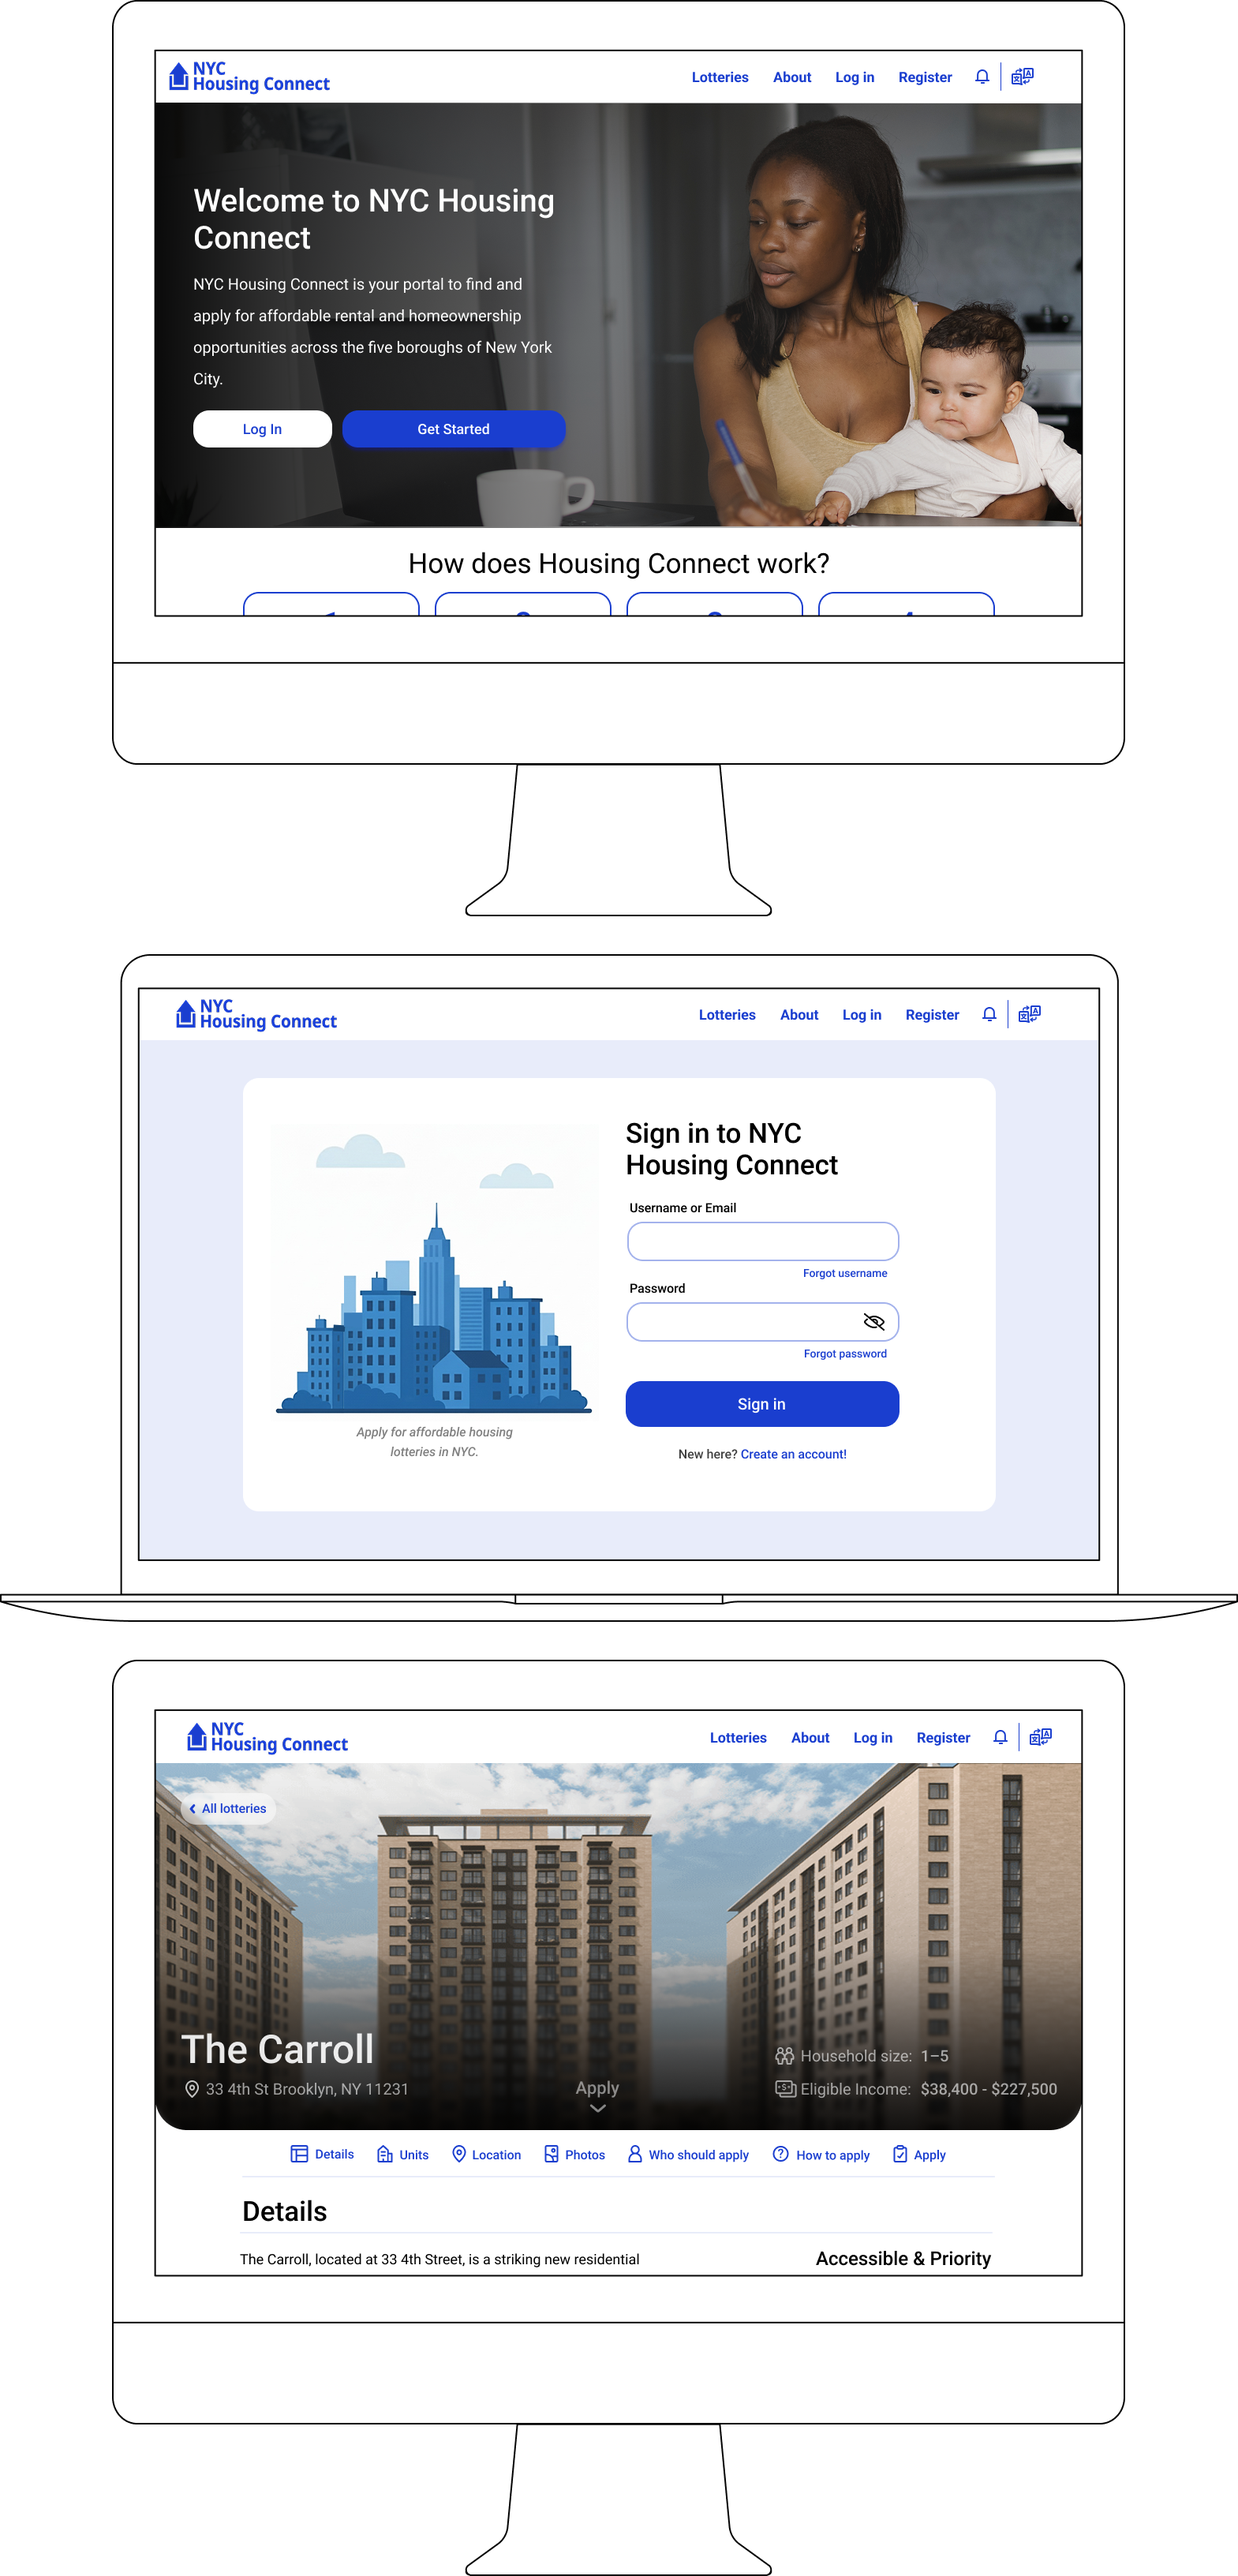
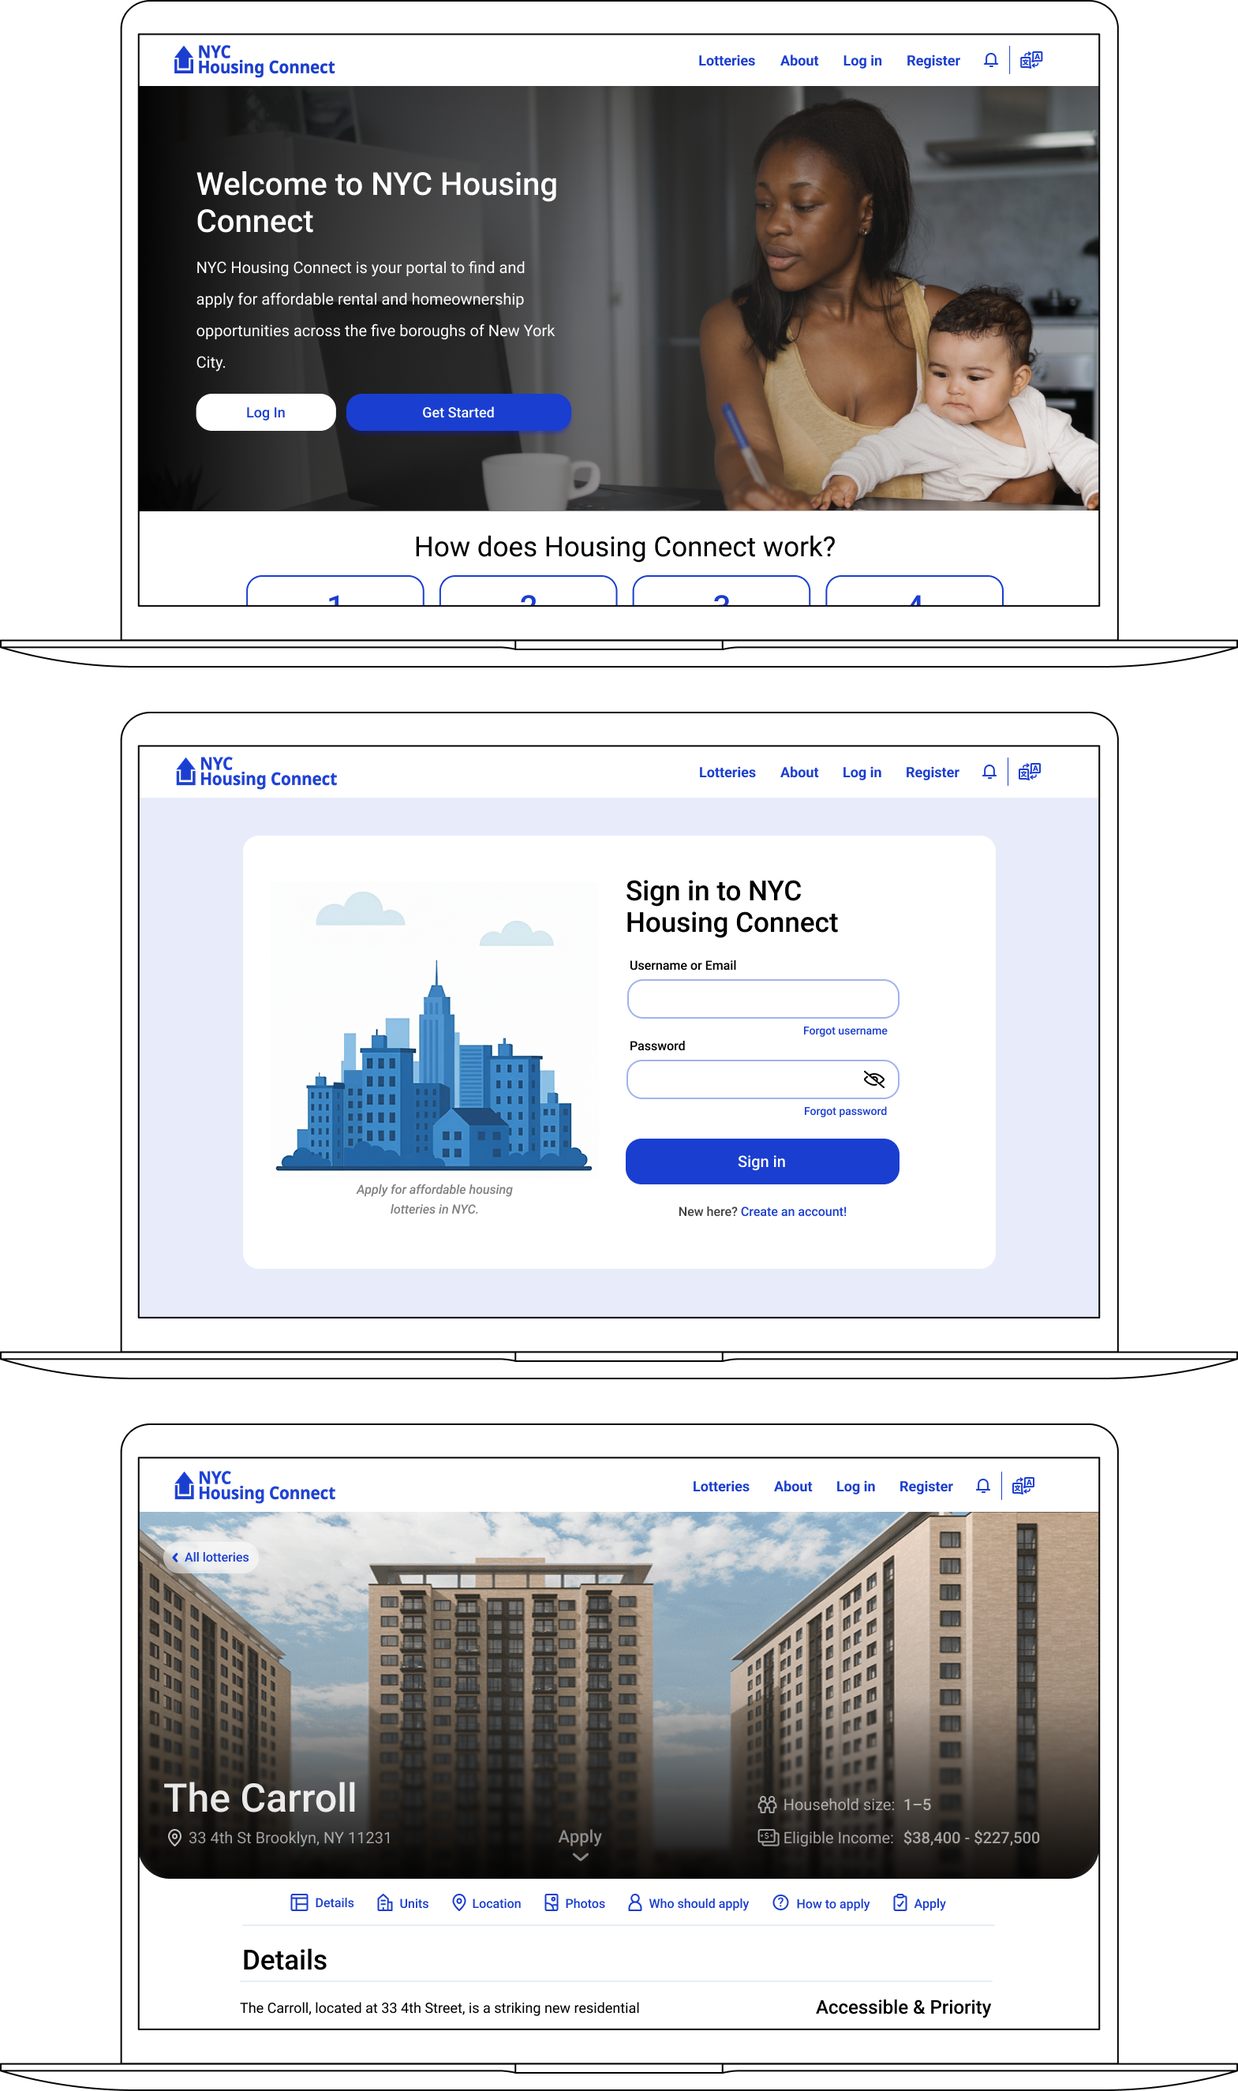
Change margin below preview images. Change preview images to png

diff --git a/projects/anvaya.css b/projects/anvaya.css
@@ -289,6 +289,7 @@ Section 1: Overview
 }
 
 #anvaya-preview {
+    content: url("../photos/anvaya-preview.png");
     margin-top: 50px;
     height: 300px;
     width: 100%;
@@ -320,8 +321,8 @@ Section 1: Overview
     }
     
     #anvaya-preview {
-        height: 300px;
-        margin-top: 30px;
+        content: url("../photos/anvaya-preview-small.png");
+        height: auto; 
     }
 }
 

diff --git a/projects/anvaya.html b/projects/anvaya.html
@@ -56,7 +56,7 @@
                     </div>
                 </div>
                 <div class="overview-bottom">
-                    <img src="../photos/anvaya-preview.svg" alt="Anvaya Preview" id="anvaya-preview">
+                    <img src="../photos/anvaya-preview.png" alt="Anvaya Preview" id="anvaya-preview">
                 </div>
             </section>
 

diff --git a/projects/bib.css b/projects/bib.css
@@ -379,6 +379,11 @@ span {
 
 /* Responsive adjustments */
 @media (max-width: 768px) {
+    .empathize-header {
+        margin-top: 10px;
+    }
+
+
     .empathize-middle {
         flex-direction: column;
         gap: 30px;

diff --git a/projects/mm.css b/projects/mm.css
@@ -408,6 +408,10 @@ span {
 }
 
 @media (max-width: 768px) {
+    .empathize-header {
+        margin-top: 10px;
+    }
+
     .empathize-middle {
         flex-direction: column;
         gap: 30px;
